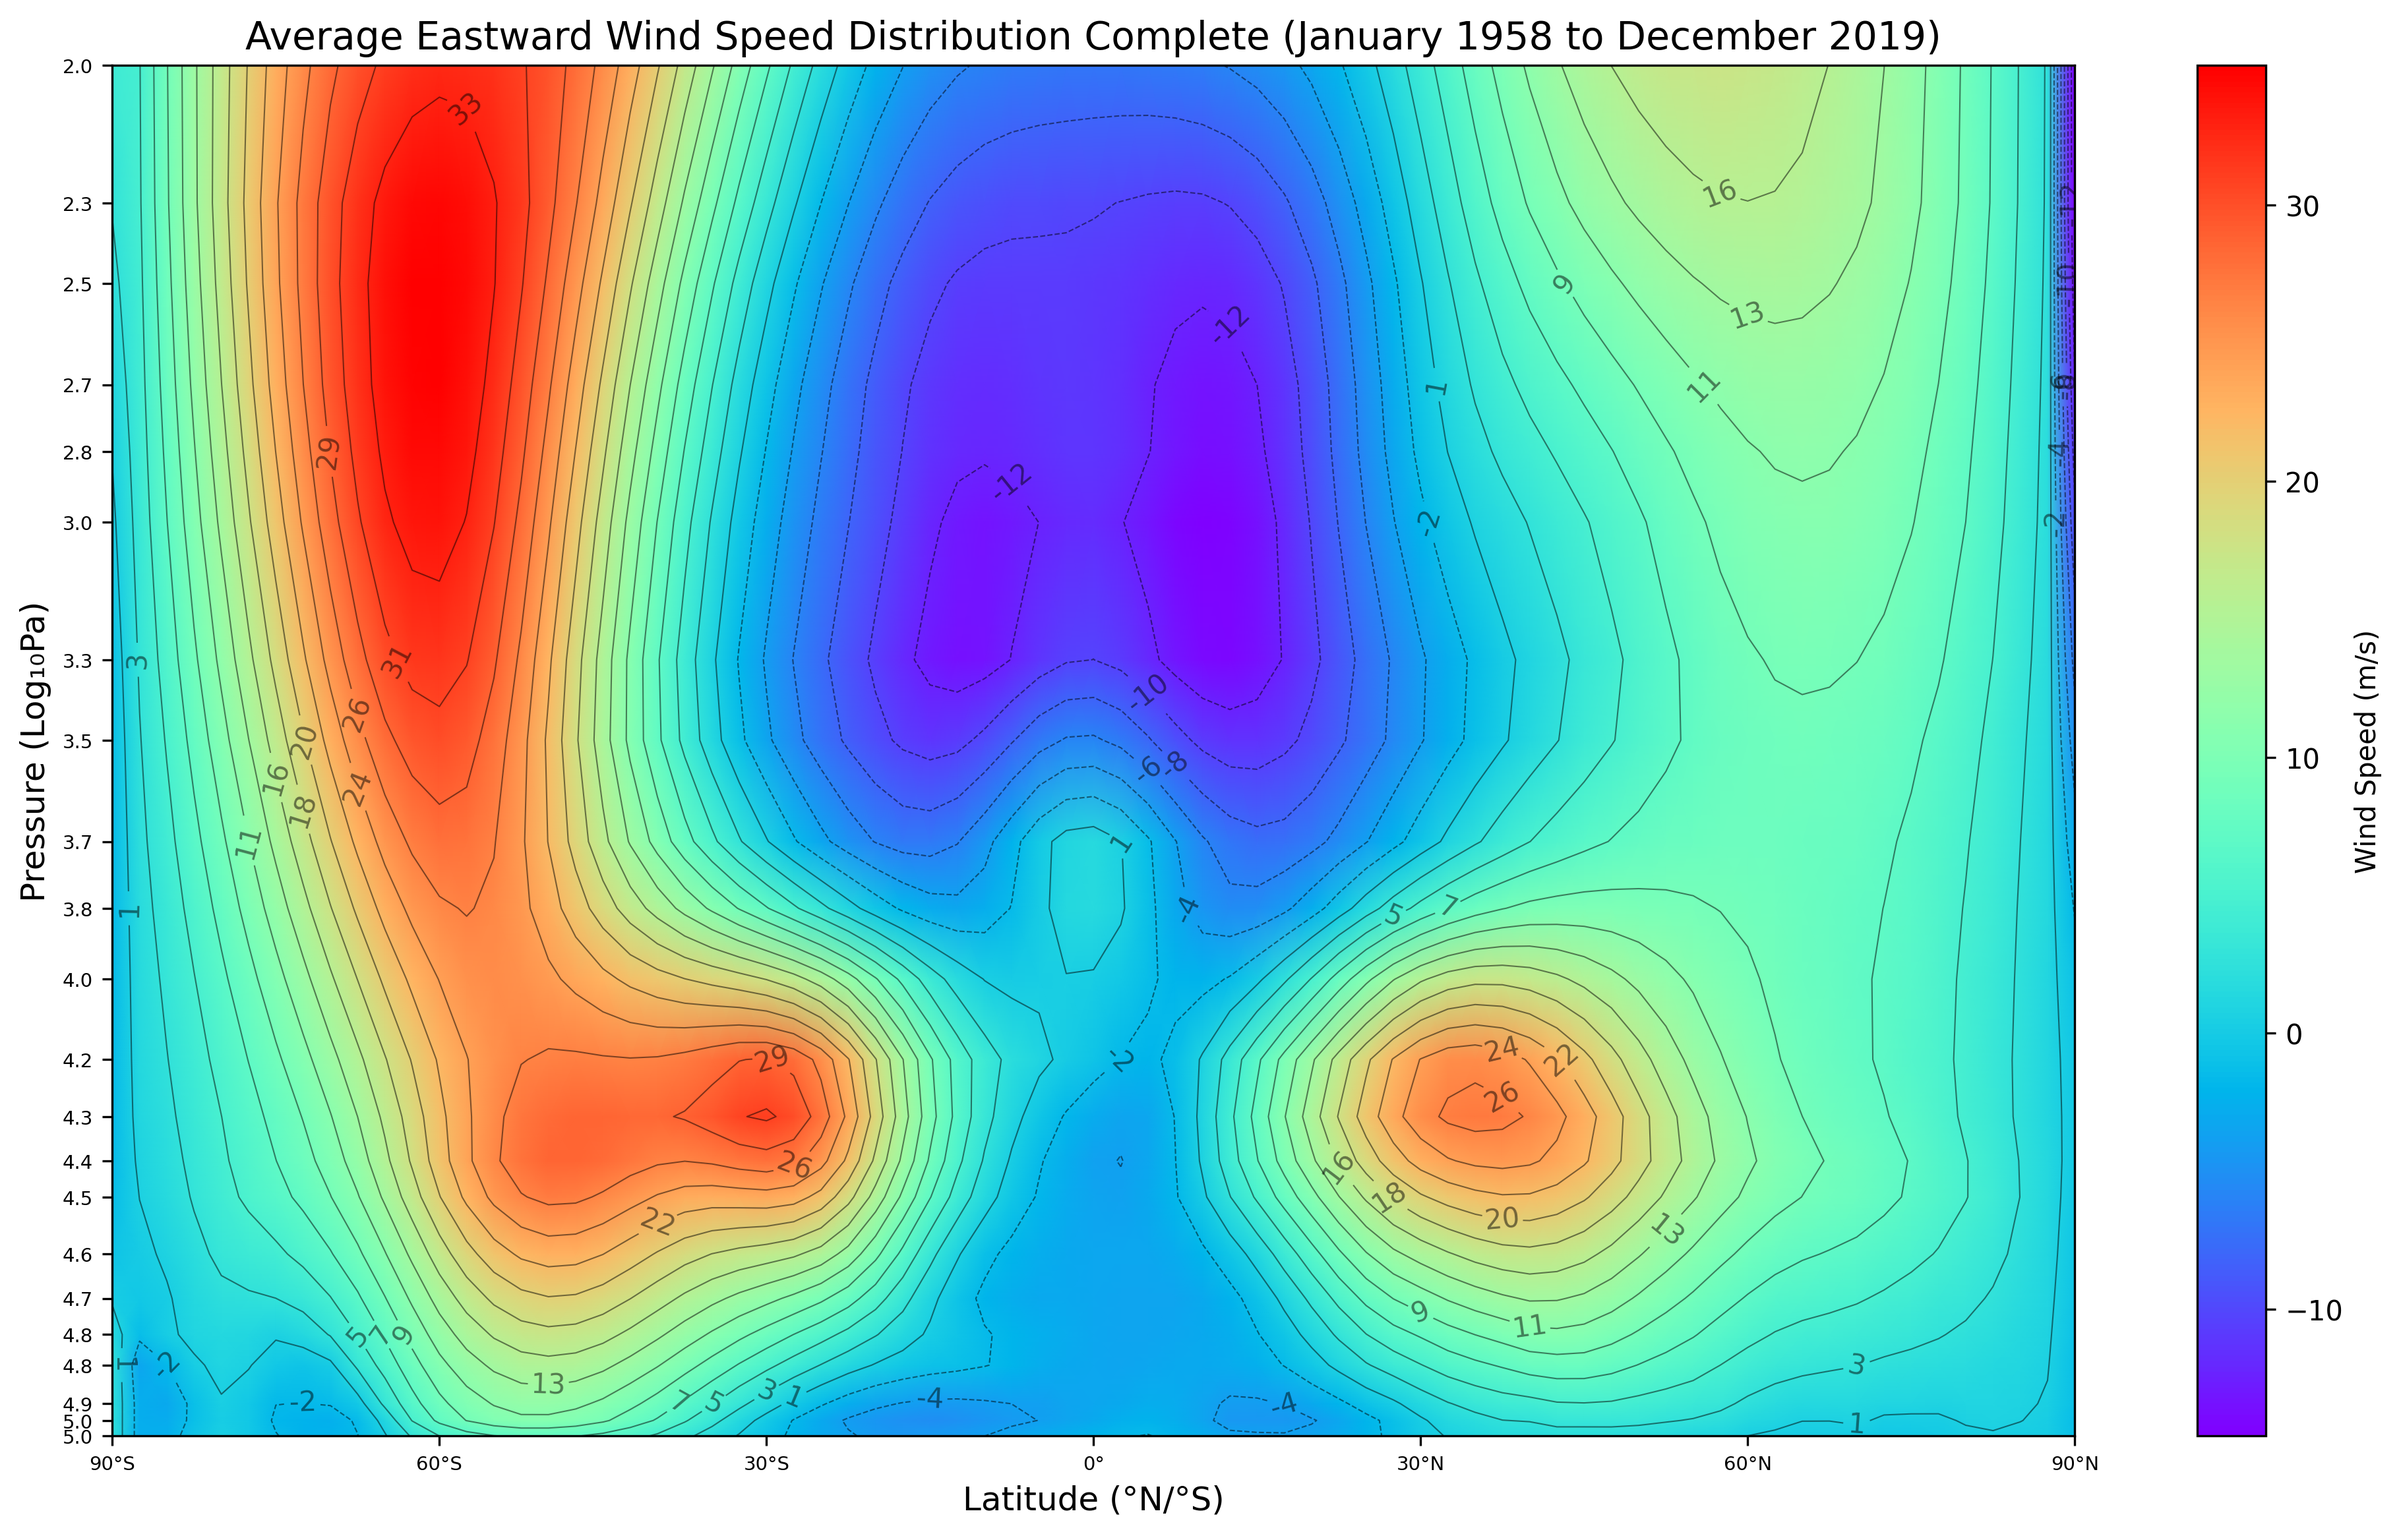
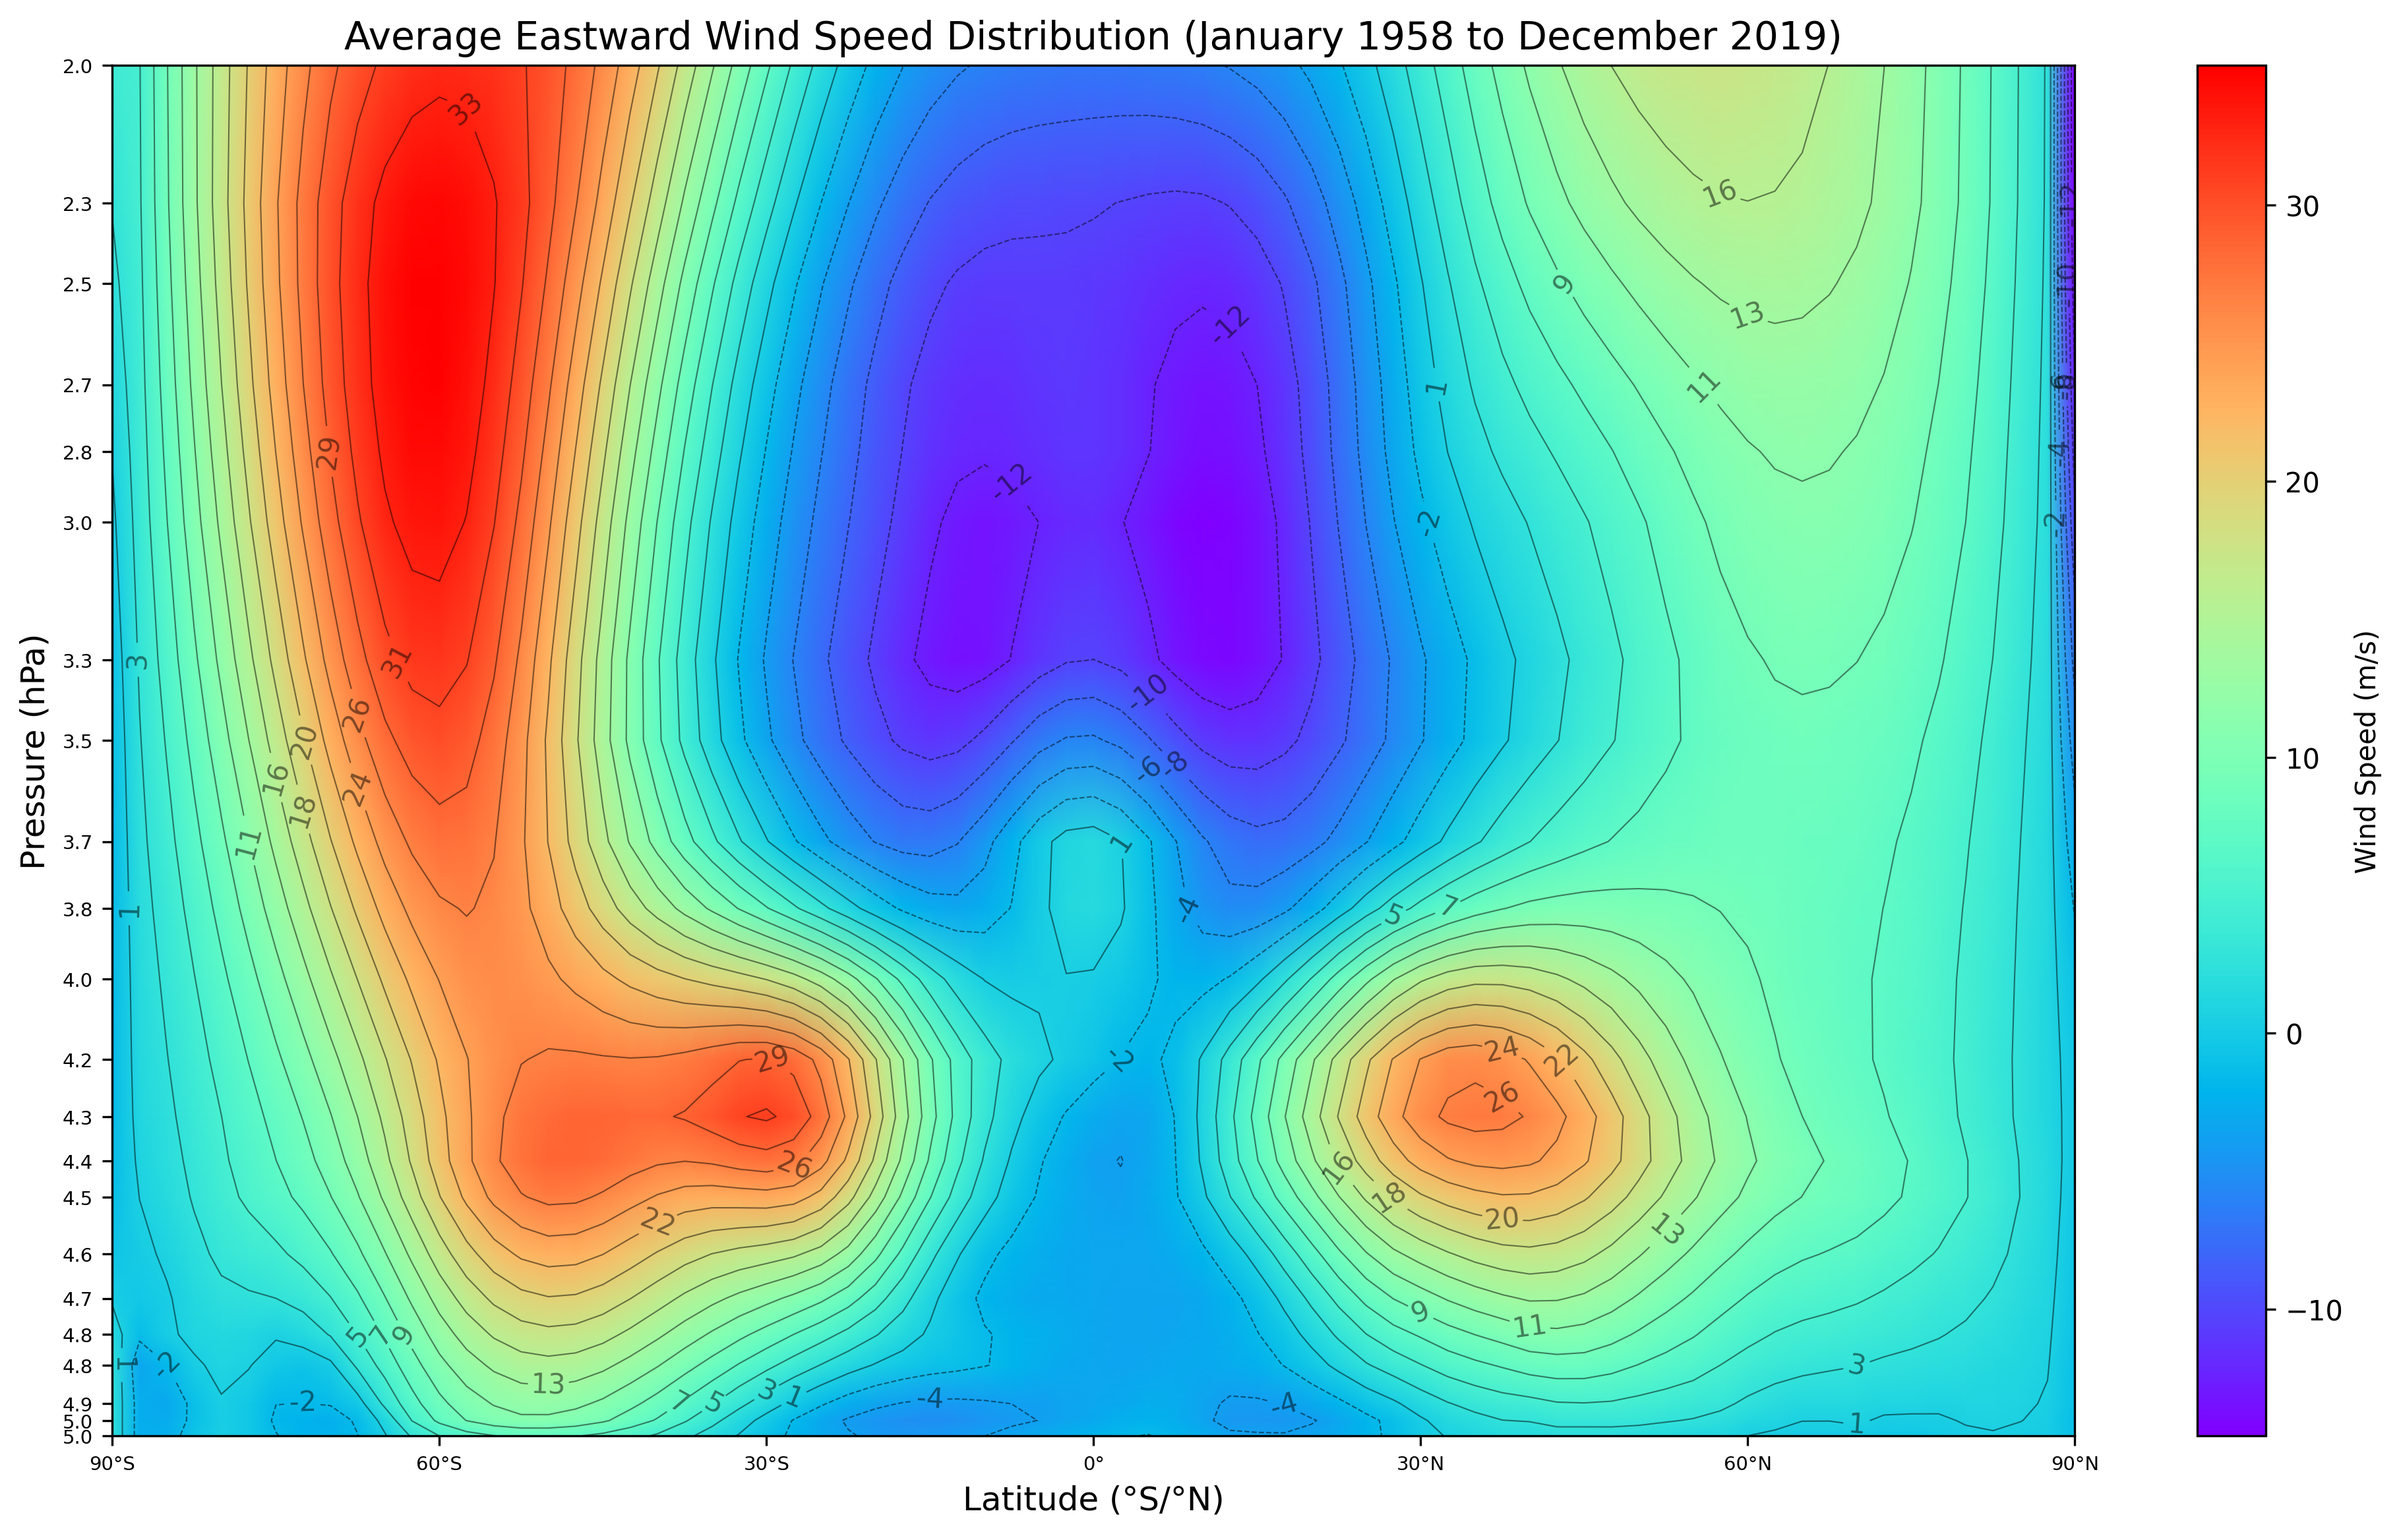
OwO

Changed region(s): [[0.0931, 0.0, 0.8069, 0.0309], [0.0, 0.4017, 0.031, 0.5871], [0.4655, 0.9579, 0.4966, 0.9888]]

diff --git a/RoughWork.py b/RoughWork.py
@@ -4,7 +4,7 @@ from netCDF4 import Dataset
 
 data = Dataset(r'C:\Users\shouv\Downloads\project\ta_Amon_reanalysis_JRA-55_195801-201912.2D.cg.nc')
 lat = data.variables['lat'][:]
-pres = data.variables['plev'][:]
+pres = data.variables['plev'][:22]
 time = data.variables['time'][:]
 ta = data.variables['ta'][:, :22, :]
 
@@ -38,11 +38,11 @@ ax.set_xticks([-90, -60, -30, 0, 30, 60, 90])
 ax.set_xticklabels(['90°S', '60°S', '30°S', '0°', '30°N', '60°N', '90°N'], fontsize=7)
 ax.set_xlabel("Latitude (°S/°N)", fontsize=10)
 ax.set_ylabel("Pressure (hPa)", fontsize=10)
-ax.set_title("Average Temperature Distribution Complete (January 1958 to December 2019)", fontsize=14)
+ax.set_title("Average Temperature Distribution (January 1958 to December 2019)", fontsize=14)
 
 # Flip y-axis with log values
 ax.set_ylim(np.log10(pres.max()), np.log10(pres.min()))
 
 # Save the plot as a high-quality PNG image
-plt.savefig('temperature_distribution_complete.png', dpi=300, bbox_inches='tight')
+plt.savefig('temperature_distribution.png', dpi=300, bbox_inches='tight')
 plt.show()
